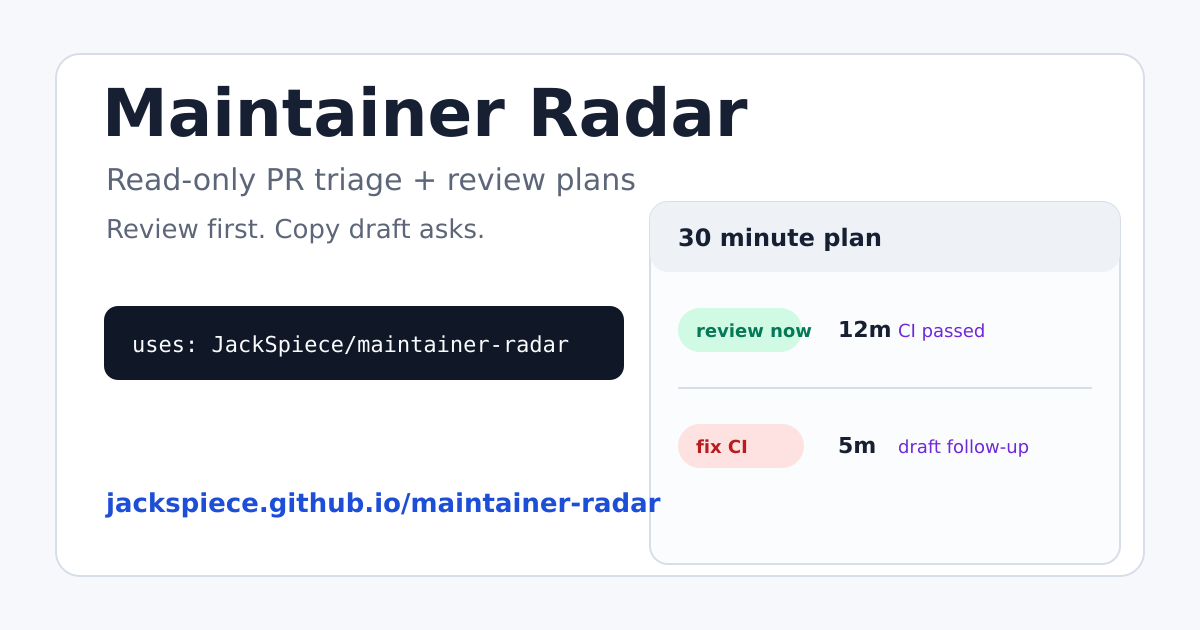
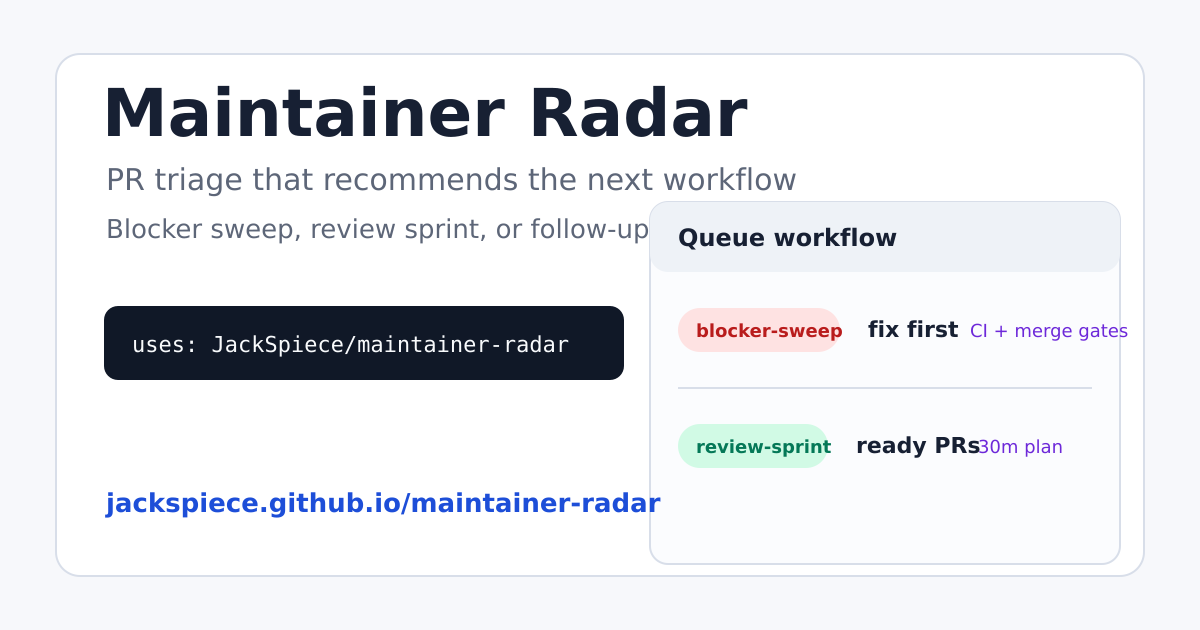
Refresh workflow recommendation preview

diff --git a/docs/index.html b/docs/index.html
@@ -4,9 +4,9 @@
   <meta charset="utf-8">
   <meta name="viewport" content="width=device-width, initial-scale=1">
   <title>Maintainer Radar</title>
-  <meta name="description" content="Read-only PR triage reports and review plans for maintainers, with a no-install public repo preview.">
+  <meta name="description" content="Read-only PR triage reports that recommend the next maintainer workflow, with a no-install public repo preview.">
   <meta property="og:title" content="Maintainer Radar">
-  <meta property="og:description" content="Read-only PR triage reports and review plans for maintainers, with a no-install public repo preview.">
+  <meta property="og:description" content="Read-only PR triage reports that recommend the next maintainer workflow, with a no-install public repo preview.">
   <meta property="og:type" content="website">
   <meta property="og:url" content="https://jackspiece.github.io/maintainer-radar/">
   <meta property="og:image" content="https://jackspiece.github.io/maintainer-radar/assets/social-preview.png">
@@ -14,7 +14,7 @@
   <meta property="og:image:height" content="630">
   <meta name="twitter:card" content="summary_large_image">
   <meta name="twitter:title" content="Maintainer Radar">
-  <meta name="twitter:description" content="Read-only PR triage reports and review plans for maintainers, with a no-install public repo preview.">
+  <meta name="twitter:description" content="Read-only PR triage reports that recommend the next maintainer workflow, with a no-install public repo preview.">
   <meta name="twitter:image" content="https://jackspiece.github.io/maintainer-radar/assets/social-preview.png">
   <style>
     :root {

diff --git a/tests/test_pages_assets.py b/tests/test_pages_assets.py
@@ -62,7 +62,7 @@ class PagesAssetTests(unittest.TestCase):
         self.assertIn('href="browser-preview.html"', html)
         self.assertIn("https://github.com/JackSpiece/maintainer-radar/issues/new/choose", html)
         self.assertIn('<script src="assets/demo.js"></script>', html)
-        self.assertIn("Read-only PR triage reports and review plans for maintainers", html)
+        self.assertIn("recommend the next maintainer workflow", html)
         self.assertIn('property="og:image"', html)
         self.assertIn("https://jackspiece.github.io/maintainer-radar/assets/social-preview.png", html)
         self.assertIn('name="twitter:card" content="summary_large_image"', html)
@@ -165,8 +165,10 @@ class PagesAssetTests(unittest.TestCase):
         svg = (ROOT / "docs" / "assets" / "social-preview.svg").read_text(encoding="utf-8")
 
         self.assertIn("Maintainer Radar", svg)
-        self.assertIn("Read-only PR triage + review plans", svg)
-        self.assertIn("Copy draft asks", svg)
+        self.assertIn("PR triage that recommends the next workflow", svg)
+        self.assertIn("Blocker sweep, review sprint, or follow-up pass.", svg)
+        self.assertIn("blocker-sweep", svg)
+        self.assertIn("review-sprint", svg)
         self.assertIn("uses: JackSpiece/maintainer-radar", svg)
         self.assertIn("jackspiece.github.io/maintainer-radar", svg)
 